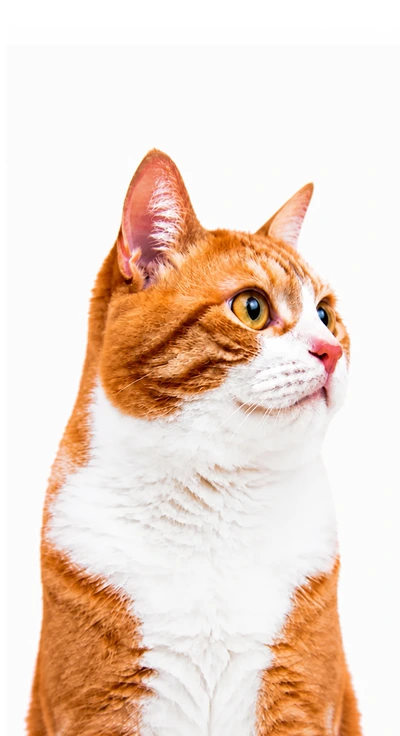
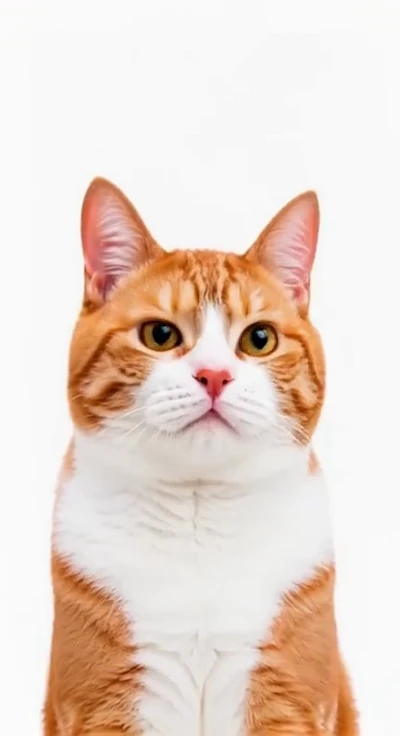
fix(cat-cursor): use continuous right gaze frames

diff --git a/pages/cat-cursor/index.html b/pages/cat-cursor/index.html
@@ -5,7 +5,7 @@
   <meta name="viewport" content="width=device-width, initial-scale=1.0, maximum-scale=1.0, user-scalable=no">
   <meta name="theme-color" content="#ffffff">
   <title>Cat Cursor</title>
-  <link rel="stylesheet" href="style.css?v=20260827-4">
+  <link rel="stylesheet" href="style.css?v=20260827-5">
 </head>
 <body>
   <main id="cat-stage" class="cat-stage" aria-label="커서를 따라 시선을 움직이는 고양이">
@@ -37,6 +37,6 @@
     </div>
   </main>
 
-  <script type="module" src="script.js?v=20260827-4"></script>
+  <script type="module" src="script.js?v=20260827-5"></script>
 </body>
 </html>

diff --git a/pages/cat-cursor/script.js b/pages/cat-cursor/script.js
@@ -1,5 +1,5 @@
 const CIRCLE_FRAME_COUNT = 96;
-const ASSET_VERSION = '20260827-4';
+const ASSET_VERSION = '20260827-5';
 
 const circlePointers = Array.from({ length: CIRCLE_FRAME_COUNT }, (_, index) => {
   const angle = -(index / CIRCLE_FRAME_COUNT) * Math.PI * 2;

diff --git a/pages/cat-cursor/spec.md b/pages/cat-cursor/spec.md
@@ -3,13 +3,14 @@
 ## Interaction
 
 - The original cat video is decomposed into a 96-frame circular WebP sequence at 24 fps.
-- Twenty-nine generated keyframes fill the missing cross: one shared center plus seven intermediate poses between center and each original cardinal frame.
-- Each intermediate pose is generated as a standalone image, then uniformly resized and repositioned to match the midpoint framing of its neighboring keyframes.
+- Twenty-nine keyframes fill the missing cross: one shared center plus seven intermediate poses between center and each original cardinal frame.
+- The seven center-to-right poses are sampled at equal intervals from one LTX-2.5 first/last-frame video. The center and original right cardinal frame remain unchanged, so the generated video contributes only intermediate poses.
+- The other three axes use standalone generated poses. All cross-path intermediates are normalized to the original 400 × 736 frame size before runtime.
 - Each of the 125 source images owns a normalized pointer position: 96 around the circle and 29 along the central cross.
 - Pointer coordinates are normalized from the cat's face to the four edges of the stage. The image whose pointer has the smallest two-dimensional distance from the cursor is displayed.
 - Debug mode displays every image pointer and highlights the active one. Use the on-screen `Points` button, press `D`, or append `?debug=1` to the URL to enable it.
 - Debug pointer screen positions are recalculated from normalized coordinates when the viewport changes size.
-- There are no motion-interpolated or blended images, and only one photographic frame is visible at a time.
+- There is no runtime interpolation or blending, and only one photographic frame is visible at a time.
 - Runtime images are decoded before interaction, retained in memory, and changed at most once per animation frame.
 - Cardinal mapping is frame 1 right, frame 25 up, frame 49 left, and frame 73 down.
 - Pointer movement drives the desktop interaction; pointer dragging provides the same behavior on touch devices.
